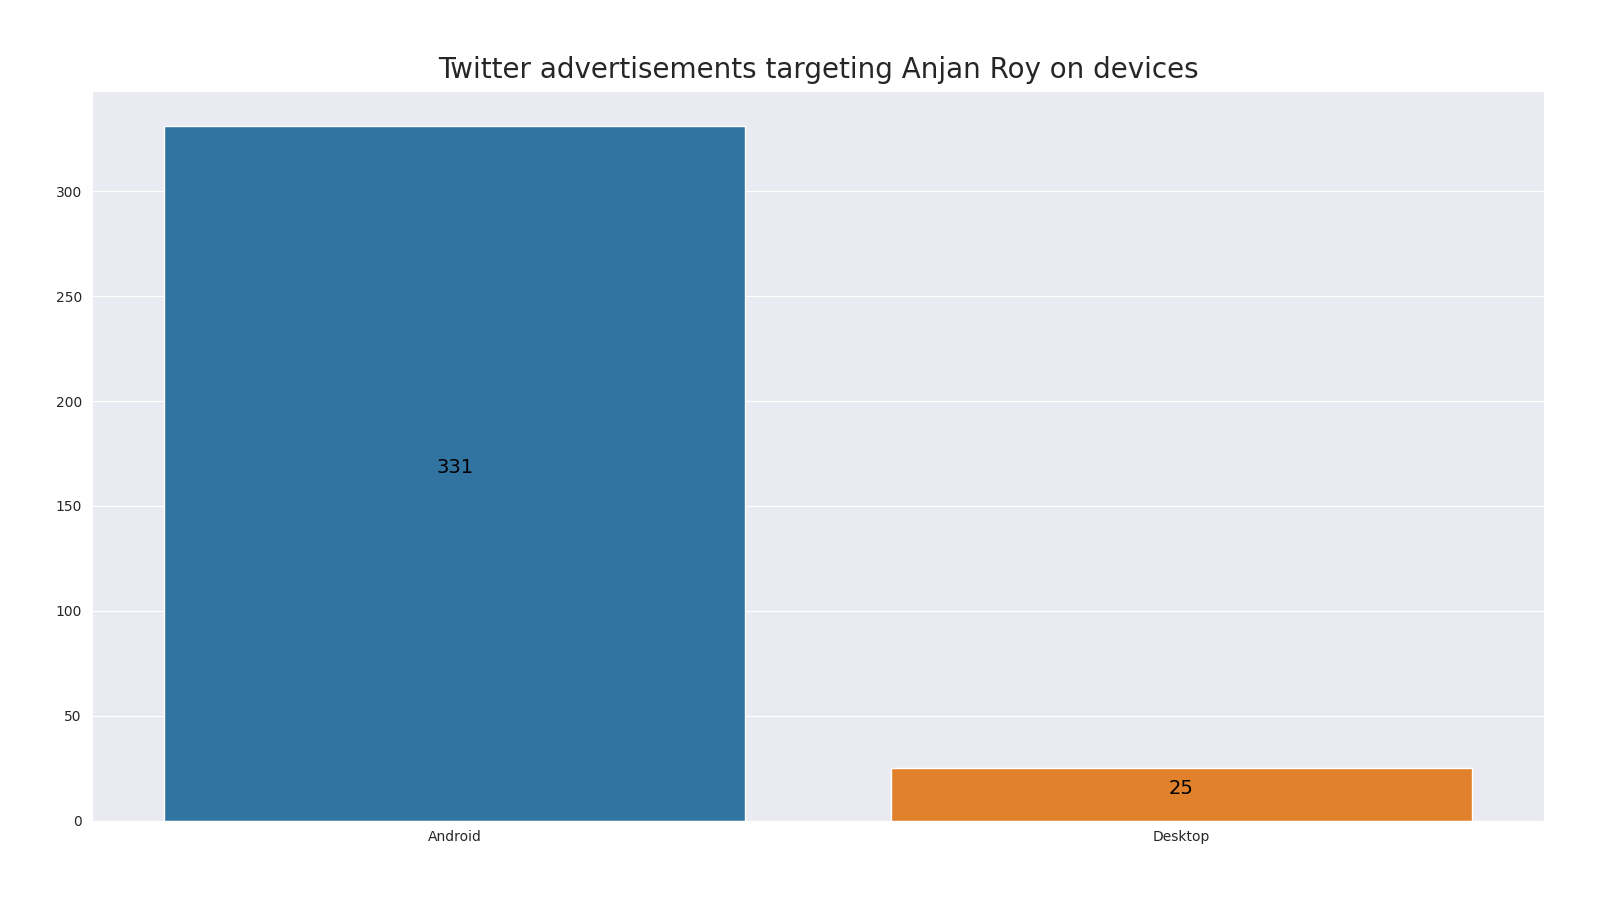
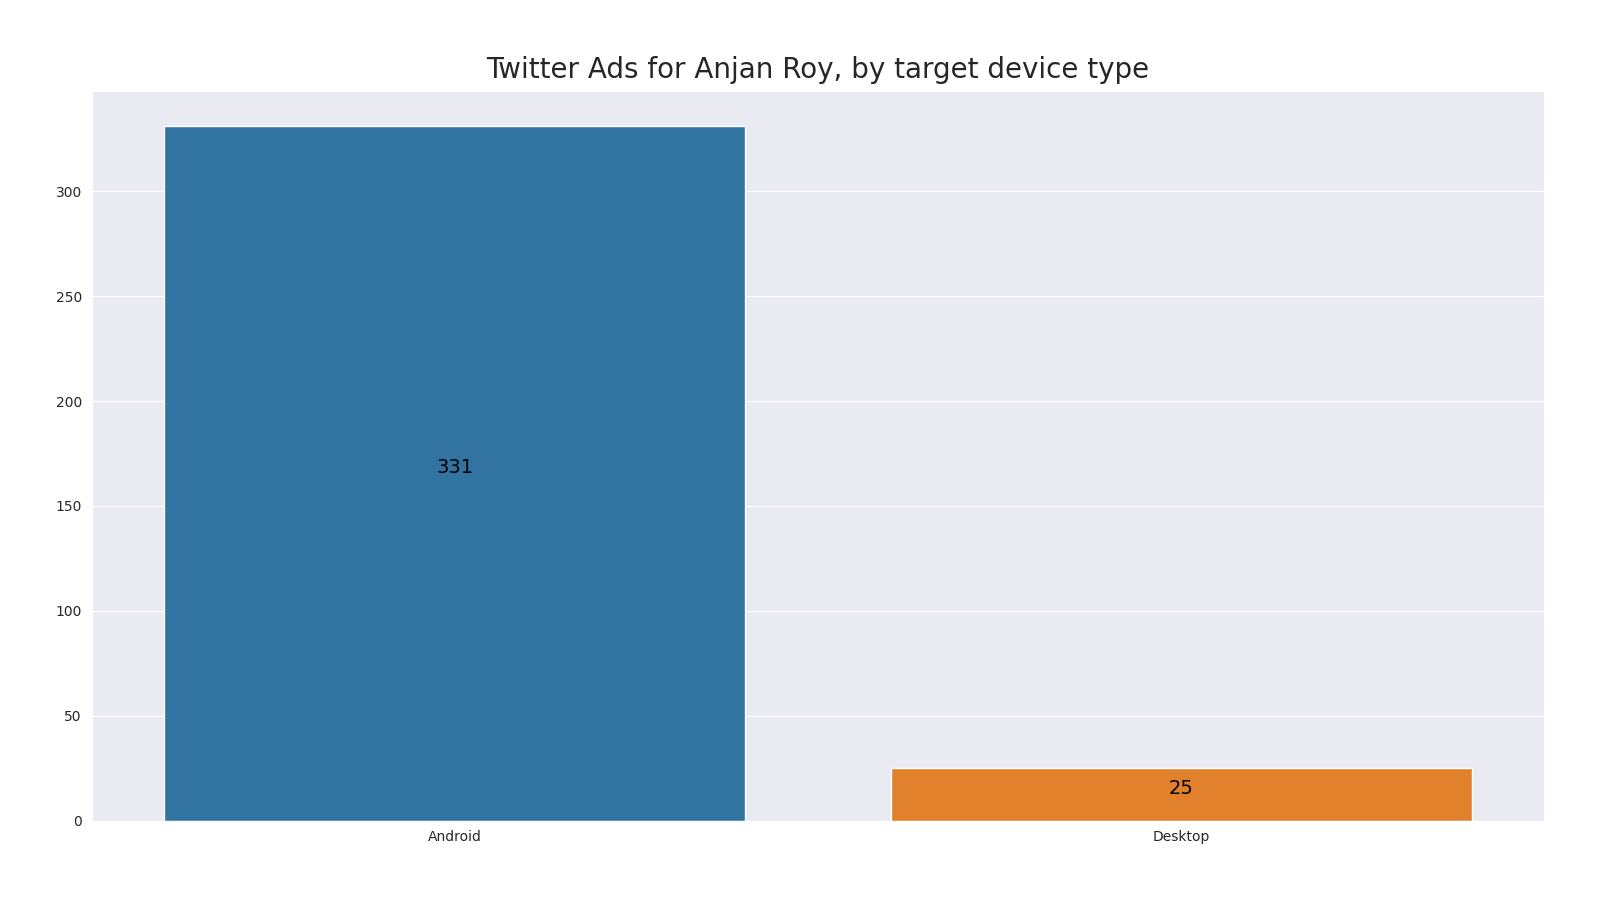
updated plot title

Changed region(s): [[0.2812, 0.0622, 0.75, 0.0933]]

diff --git a/twiz/main.py b/twiz/main.py
@@ -123,7 +123,7 @@ def main():
                     _joinName(_accountDisplayName))),
             plotAdTargetDeviceTypes(
                 _engagements,
-                'Twitter advertisements targeting {} on devices'.format(
+                'Twitter Ads for {}, by target device type'.format(
                     _accountDisplayName),
                 'plots/twitterAdsTargeting{}OnDevices.png'.format(
                     _joinName(_accountDisplayName))),
@@ -132,8 +132,7 @@ def main():
                 'Twitter Ads for {}, by on-screen display location'.format(
                     _accountDisplayName),
                 'plots/twitterAdCountByDisplayLocationFor{}.png'.format(
-                    _joinName(_accountDisplayName))
-            )
+                    _joinName(_accountDisplayName)))
         ]
 
         print('[+]Obtained success : {:.2f} %, in {:.2f} s'.format(

diff --git a/README.md b/README.md
@@ -40,7 +40,7 @@ twiz path-to-twitter-data.zip sink/
 
 - Advertisement
     - Engagements
-        - [Twitter Advertisements targeting YOU on various devices](./docs/twitterAdsTargetingYOUOnDevices.md)
-        - [Twitter Ads for *YOU*, by on-screen display location](./docs/twitterAdCountByDisplayLocationForYOU.md)
+        - [x] [Twitter Ads for **YOU**, by target device type](./docs/twitterAdsTargetingYOUOnDevices.md)
+        - [x] [Twitter Ads for **YOU**, by on-screen display location](./docs/twitterAdCountByDisplayLocationForYOU.md)
 
 **This section will keep getting populated ;)**

diff --git a/docs/twitterAdsTargetingYOUOnDevices.md b/docs/twitterAdsTargetingYOUOnDevices.md
@@ -1,4 +1,4 @@
-# Twitter Advertisements targeting YOU on various devices
+# Twitter Ads for **YOU**, by target device type
 
 ## intro
 
